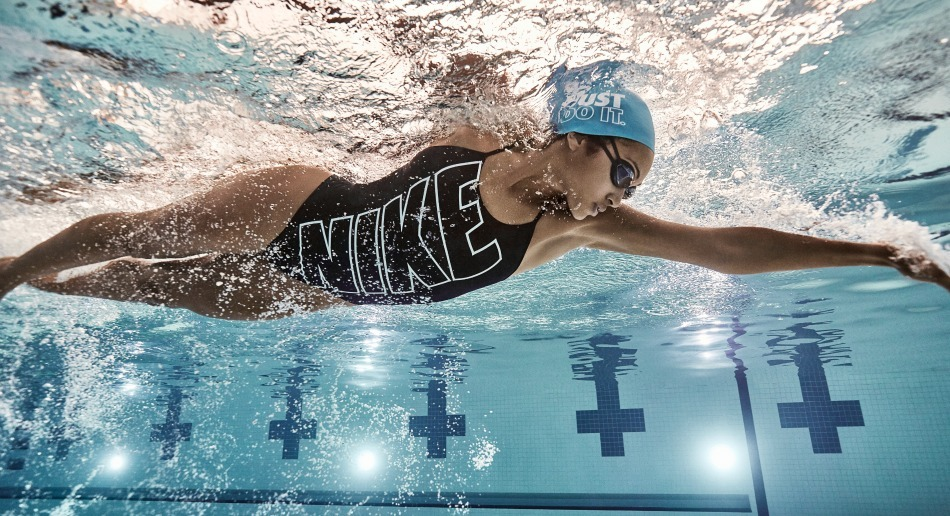
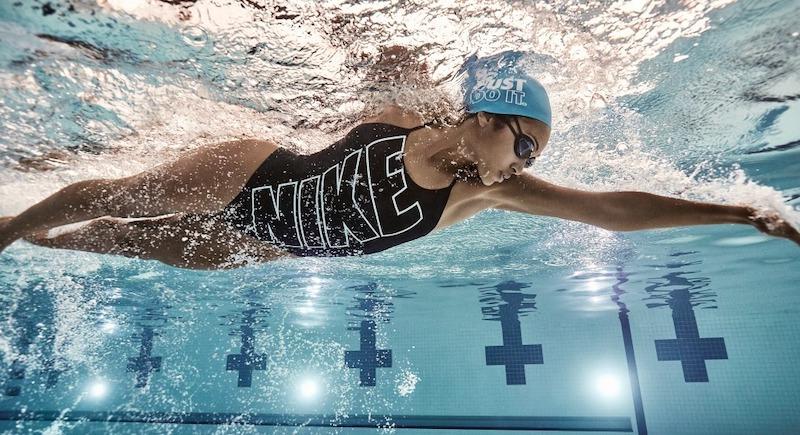
fixed img size

diff --git a/itis3135/project/index.html b/itis3135/project/index.html
@@ -24,7 +24,7 @@
             </nav>
         </header>
         <main>
-            <img src = "project_images/swim_home.jpeg" alt = "Swimming Freestyle" /> 
+            <img src = "project_images/swim_home.jpeg" alt = "Swimming Freestyle" width = "800" height = "435" /> 
         </main>
         <footer>
 
